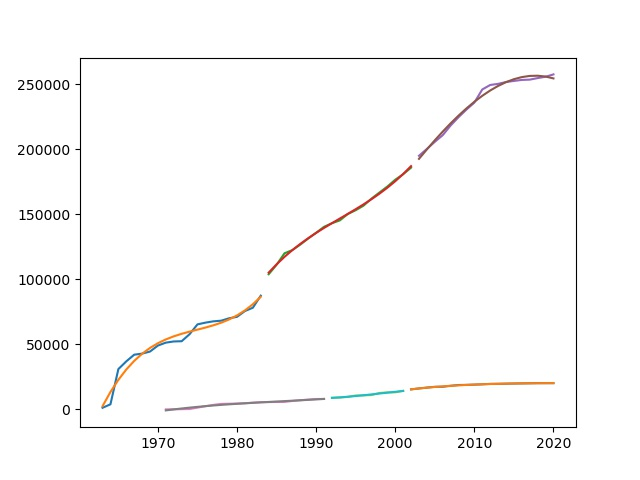
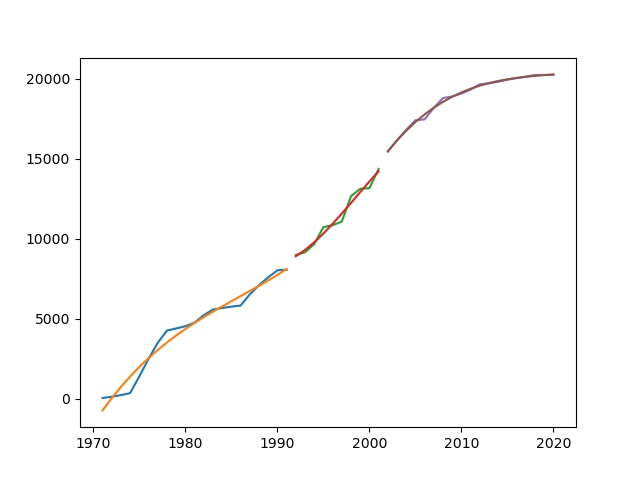
fix

diff --git a/model/sum/sum_partition.py b/model/sum/sum_partition.py
@@ -121,6 +121,7 @@ def partition_fitting(partition, deg):
 
 
 def save_plot(data_name, x, y, fit_y):
+    plt.figure()
     for i in range(0, len(x)):
         plt.plot(x[i], y[i])
         plt.plot(x[i], fit_y[i])
